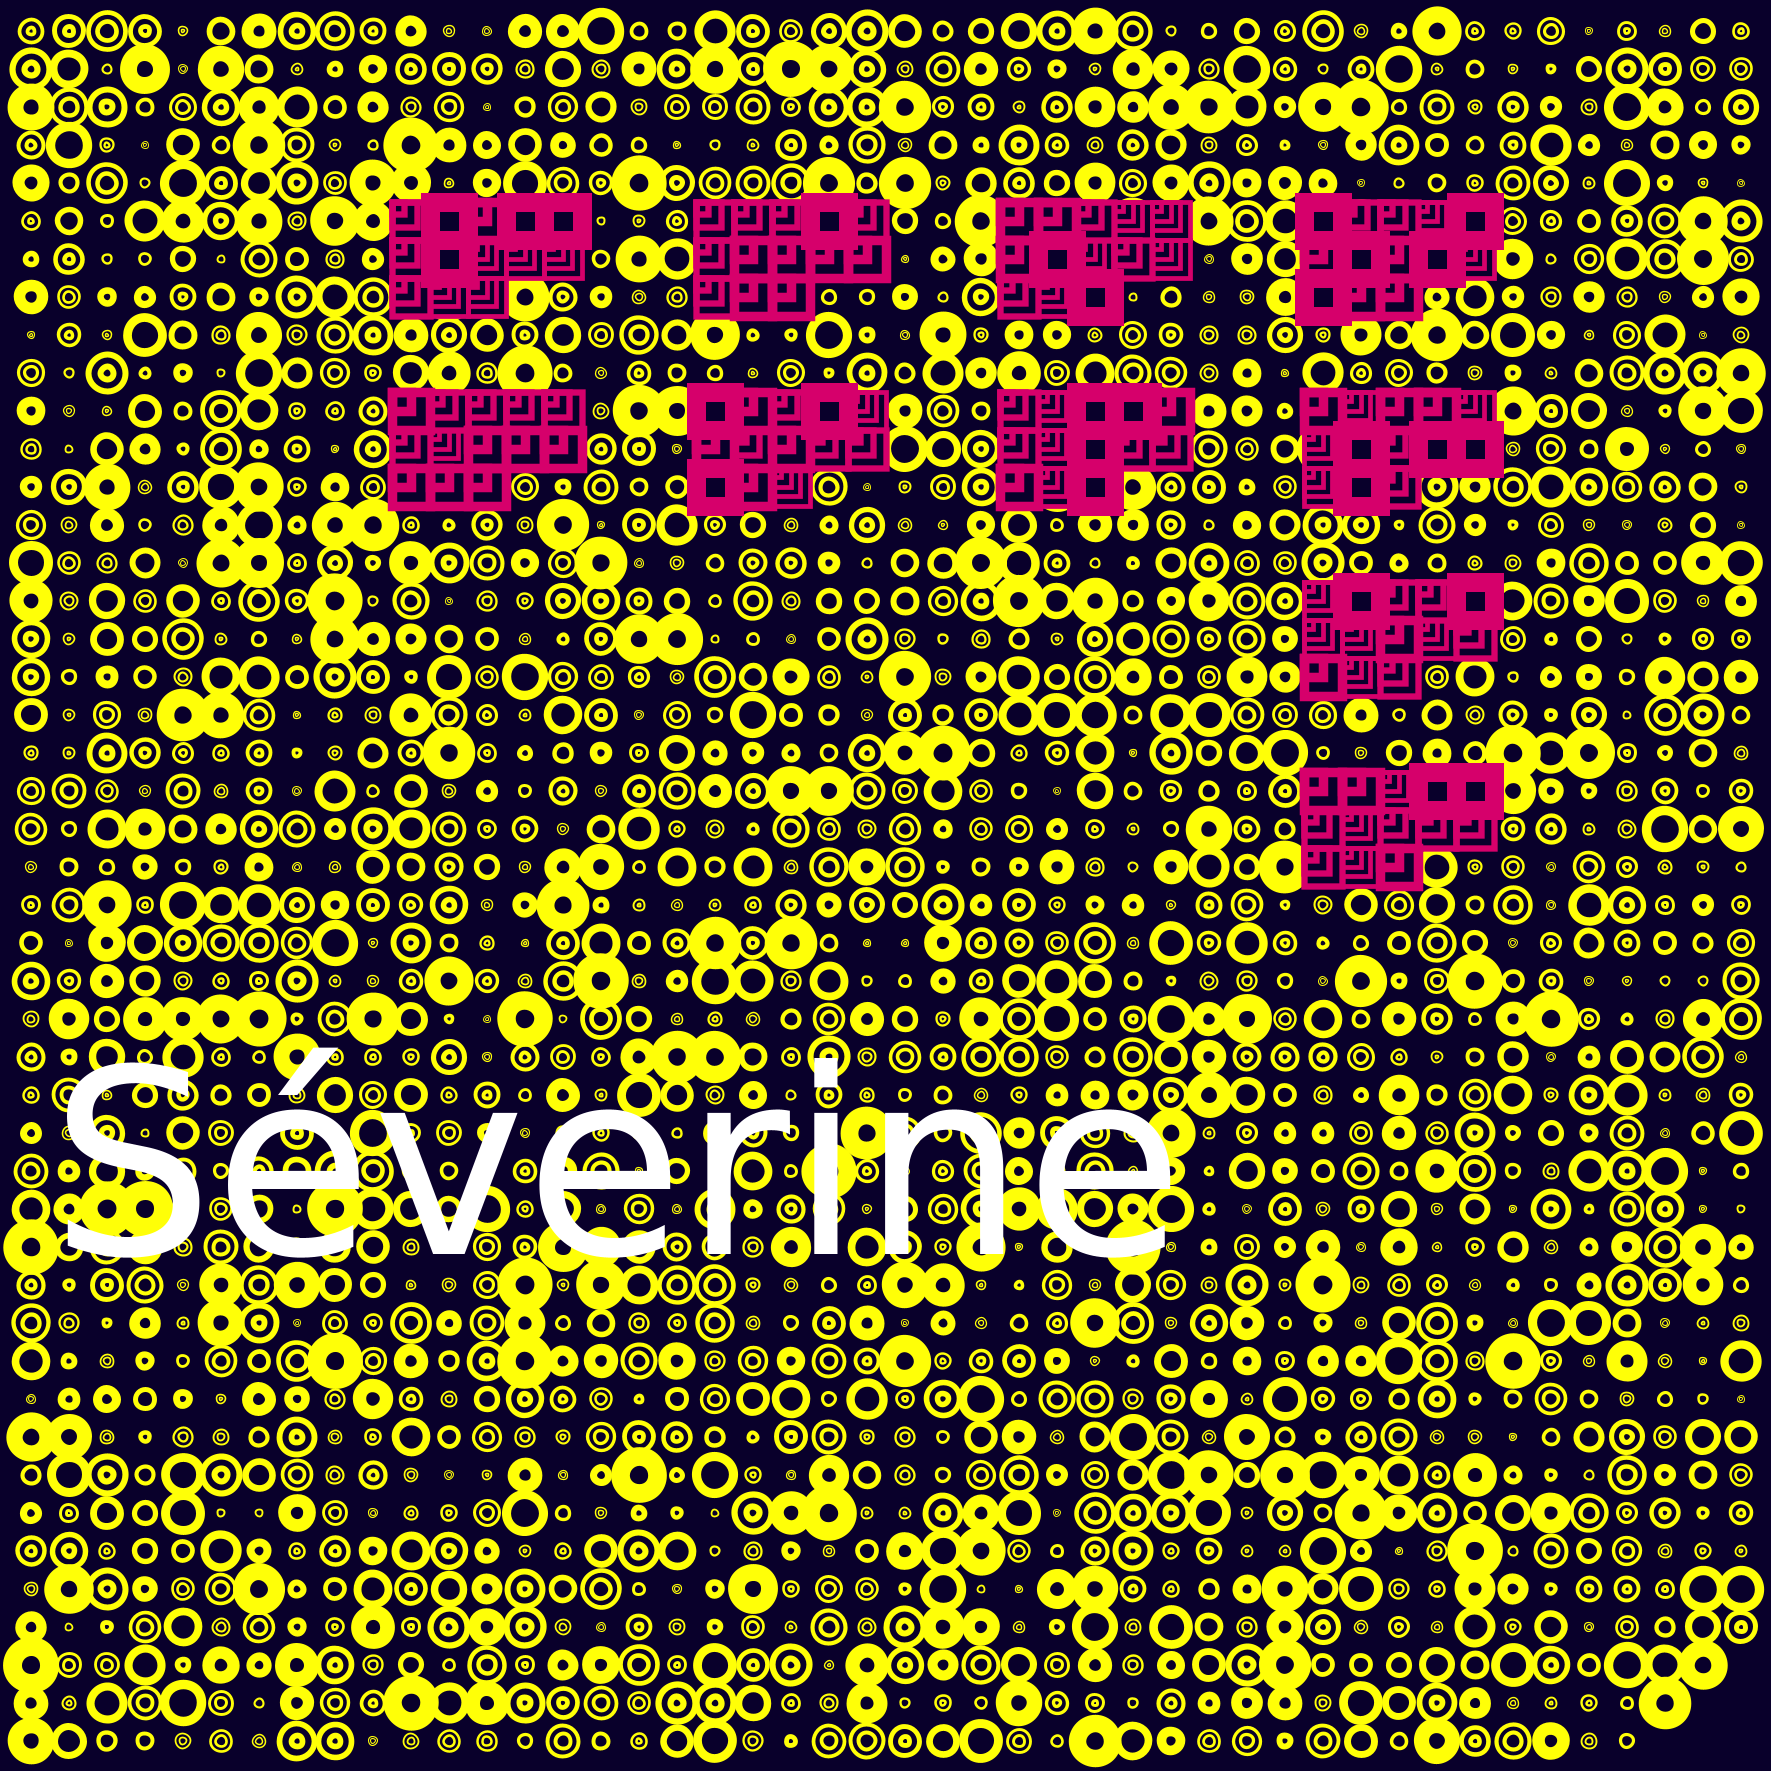
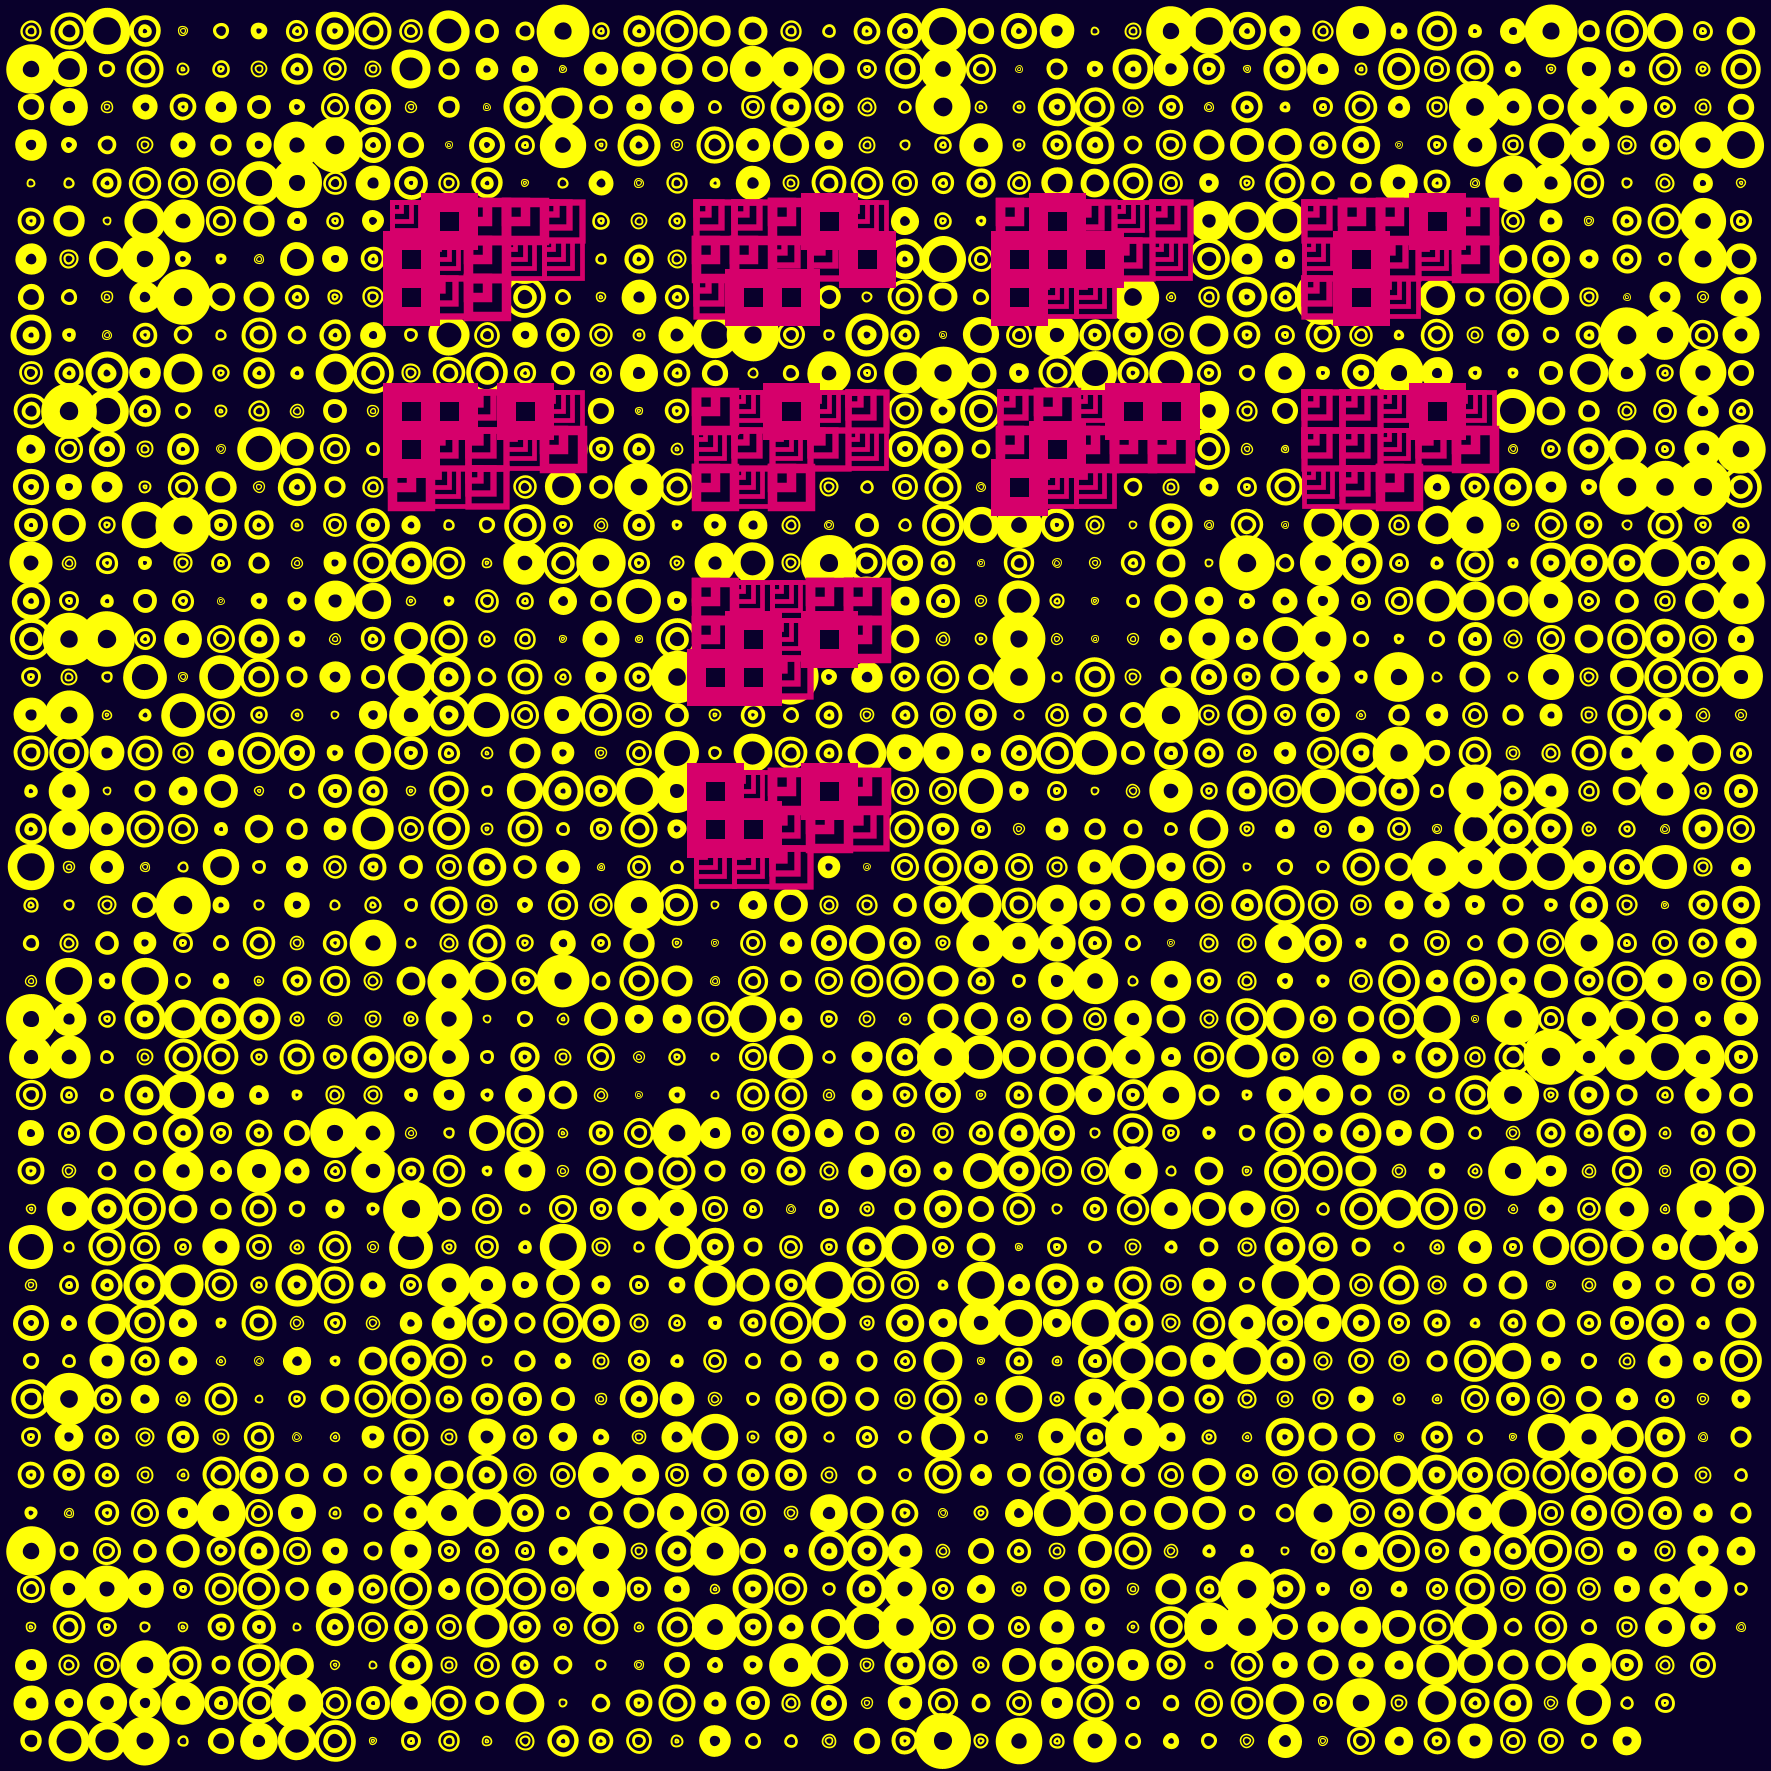
*.{-><-}.*

diff --git a/processing-experiments/src/main/java/art/studio/Birth043.java b/processing-experiments/src/main/java/art/studio/Birth043.java
@@ -53,7 +53,7 @@ public class Birth043 extends PApplet {
 
     @Override
     public void draw() {
-        if (i < guests.length) {//guests.length
+        if (i < 1) {//guests.length
             background(palette[0][0], palette[0][1], palette[0][2]);
             String name = guests[i];
             back();
@@ -62,10 +62,10 @@ public class Birth043 extends PApplet {
             //fill(palette[2][0], palette[2][1], palette[2][2]);
             stroke(palette[3][0], palette[3][1], palette[3][2]); strokeWeight(7);
             fill(0,0,100);
-            text(name, xoff+step, 33*step);
+            //text(name, xoff+step, 33*step);
             fill(palette[0][0], palette[0][1], palette[0][2]);
-            text(name, xoff+step+3, 33*step-3);
-            save("Birth043" + name + ".png");
+            //text(name, xoff+step+3, 33*step-3);
+            save("Birth043.png");
             i++;
         } else {
             noLoop();
